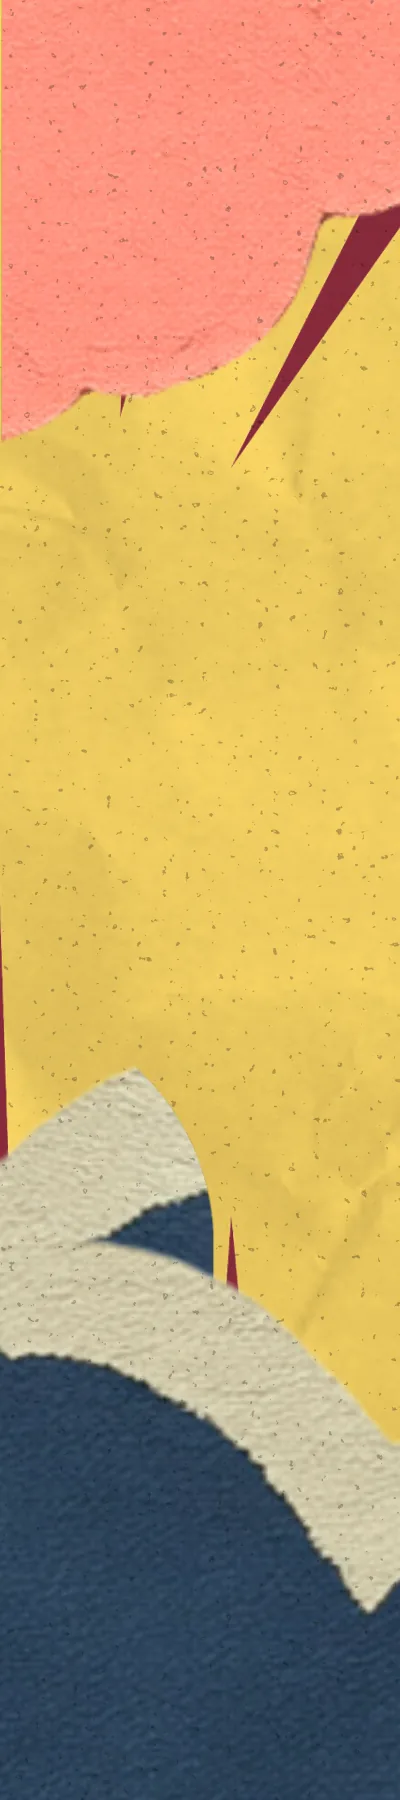
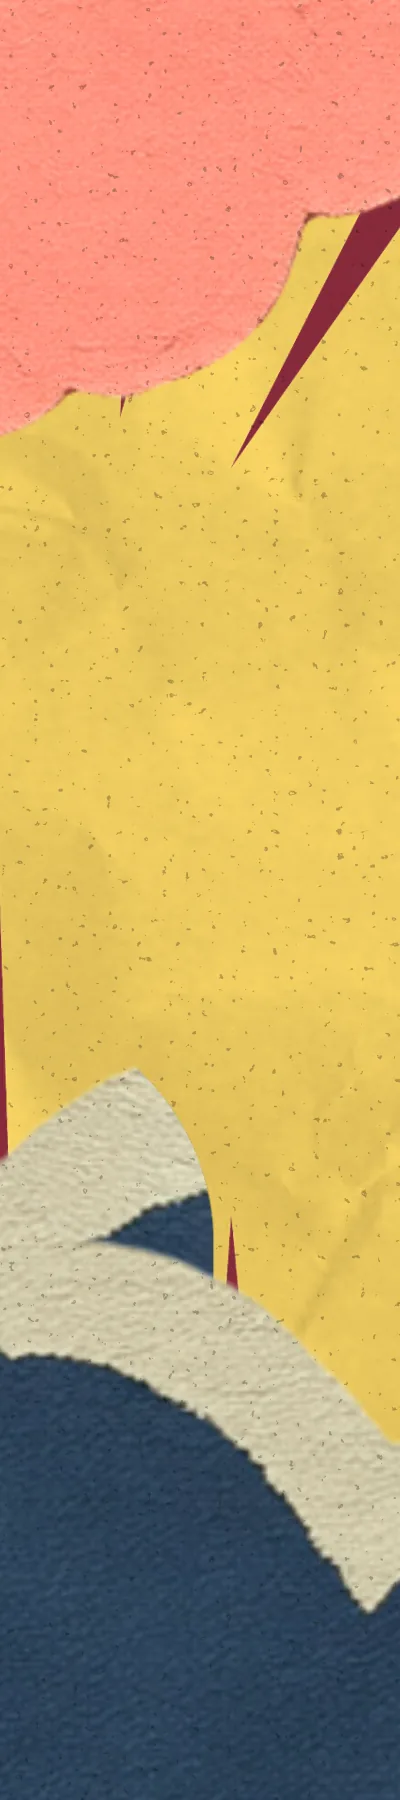
Render leopard whole over Home bleed; hide left edge column
- Re-convert Sarah's revised bleed strips to WebP (27 KB + 41 KB).
- Move the strips into the stage as ::before/::after layers (z 8):
  above the background layers, below the girl/carpet, crate and
  leopard, which now extend past the frame's left edge whole. The
  stage clip widens to the 1840 bleed frame (clip-path inset).
- Left strip overlaps the frame by 3 design px to cover its dark
  left-edge column (2px at 1x, slightly wider once scaled).
- Center the stage with inset/margin:auto instead of translate(-50%),
  which put it half a pixel off at odd viewport sizes and left a
  half-covered top row.

1440x900 changes only in columns 0-2; mobile unchanged.

Claude-Session: https://claude.ai/code/session_01MUCQJerJLqxyNjza7feVvG

Changed region(s): [[0.39, 0.0933, 0.84, 0.2178], [0.0, 0.0, 0.21, 0.2489], [0.9, 0.0933, 1.0, 0.1244]]

diff --git a/css/home.css b/css/home.css
@@ -51,51 +51,58 @@ body.page-home {
    whole frame is always visible (short laptop windows no longer crop
    the nav or the leopard/crate). Wider-than-16:10 viewports leave
    side space around the frame, filled by Sarah's bleed artwork
-   (.home-v2::before) out to a 1840:900 (~2.04:1) viewport.
+   (.home-v2__stage::before/::after) out to a 1840:900 (~2.04:1)
+   viewport.
    ══════════════════════════════════════════════════════════════ */
 .home-v2__stage {
   position: absolute;
-  top: 50%;
-  left: 50%;
-  transform: translate(-50%, -50%);
+  inset: 0;
+  margin: auto;   /* centers on whole pixels; a translate(-50%) put the
+                     frame half a pixel off at odd viewport sizes */
   width: min(100vw, 160vh);    /* 160 = 100 * 1440 / 900 */
   width: min(100vw, 160dvh);
-  height: auto;
+  height: min(100vh, 62.5vw);  /* 62.5 = 100 * 900 / 1440 */
+  height: min(100dvh, 62.5vw);
   aspect-ratio: 1440 / 900;
 }
 
 @media (min-width: 601px) {
-  /* Sarah's Extended Bleed frame (Figma "Desktop Home — Extended
-     Bleed", 1840x900): the 1440x900 composition centered, plus 200px
-     of bleed artwork each side. Only the two bleed strips are drawn
-     here, in a 1840:900 box matching the stage's height; the stage
-     paints over the middle and .home-v2 clips anything past the
-     viewport. Background images, so mobile never downloads them;
-     skipped at <=16:10, where there is no side space to fill. */
-  @media (min-aspect-ratio: 1441/900) {
-    .home-v2::before {
-      content: "";
-      position: absolute;
-      top: 0;
-      left: 50%;
-      transform: translateX(-50%);
-      height: 100%;    /* wider than 16:10, the stage is always full height */
-      aspect-ratio: 1840 / 900;
-      /* 200/1840 each, +1px tucked under the stage so sub-pixel
-         rounding never opens a hairline at the seams */
-      background:
-        url('/assets/images/home-v2/home-bleed-left.webp') left top / calc(10.8696% + 1px) 100% no-repeat,
-        url('/assets/images/home-v2/home-bleed-right.webp') right top / calc(10.8696% + 1px) 100% no-repeat;
-      pointer-events: none;
-    }
-  }
-
   /* Lets nav/credit type scale with the frame (cqw) instead of the
      viewport, so their Figma proportions hold at every fit size. */
   .home-v2__stage {
     container-type: inline-size;
-    overflow: hidden; /* clip to the Figma frame; layers that bleed past
-                         it would otherwise show raw edges in side space */
+    /* Clip to Sarah's Extended Bleed frame (Figma "Desktop Home —
+       Extended Bleed", 1840x900): the 1440x900 frame plus 200px each
+       side. Layers overflowing further (paper, navy band, spiral)
+       stay hidden; .home-v2 clips anything past the viewport. */
+    clip-path: inset(0 -13.8889%);
+  }
+
+  /* Bleed strips (200x900 each) as stage layers, so they scale with
+     it and stack above the background layers (z 1-7) but below the
+     girl/carpet, crate and leopard (z 9-11), which render whole into
+     the side space. Pseudo-element backgrounds: mobile never loads them. */
+  .home-v2__stage::before,
+  .home-v2__stage::after {
+    content: "";
+    position: absolute;
+    z-index: 8;
+    top: 0;
+    height: 100%;
+    background: no-repeat left top / 100% 100%;
+    pointer-events: none;
+  }
+
+  .home-v2__stage::before {
+    left: -13.8889%;
+    width: 14.0972%; /* 203px: overlaps the frame's dark left-edge column (2px at 1x, a hair wider once scaled) */
+    background-image: url('/assets/images/home-v2/home-bleed-left.webp');
+  }
+
+  .home-v2__stage::after {
+    left: 100%;
+    width: 13.8889%;
+    background-image: url('/assets/images/home-v2/home-bleed-right.webp');
   }
 }
 
